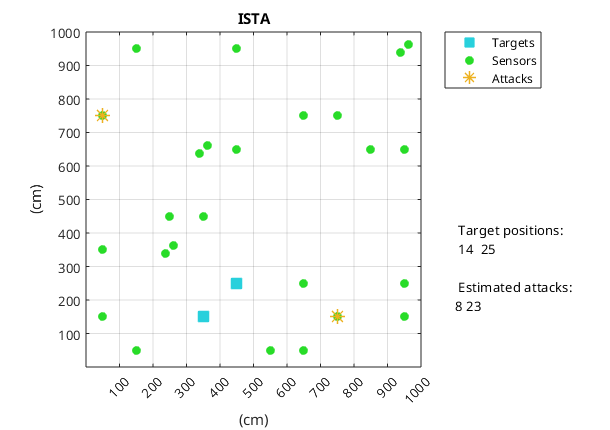
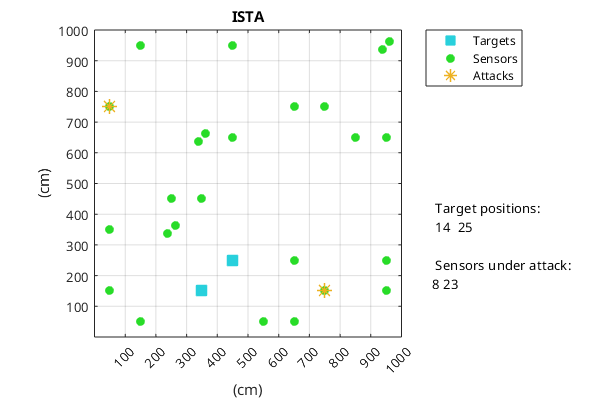
e03, e04: report

diff --git a/e04/e04_main.m b/e04/e04_main.m
@@ -5,6 +5,9 @@ clc
 format compact
 
 
+DISPLAY_MODE = false;
+
+
 % parameters
 trg = 3;    % # of targets
 atk = 2;    % # of attacks
@@ -34,13 +37,14 @@ a = z(p+1:p+q);
 x_sort = sort(x, 'descend');
 smallest_accepted_value = x_sort(trg);
 x = x >= smallest_accepted_value;
+pos_in = x;     % save for time-varying attacks init
 
 a_sort = sort(a, 'descend');
 smallest_accepted_value = a_sort(atk);
 a = a >= smallest_accepted_value;
 
 % dynamic sse ista
-first_convergence = false;
+first_conv = false;
 z_hat = zeros(p+q,1);
 k_fin = size(Y,2);
 for k=1:k_fin
@@ -68,12 +72,14 @@ for k=1:k_fin
     display_CPS(x_hat, x, D, a_hat, a, p, q, 2, str);
 
     % pause if convergence achieved for first time
-    if ~first_convergence && isequal(x_hat, x)
+    if ~first_conv && isequal(x_hat, x)
         pause
-        first_convergence = true;
+        first_conv = true;
     end
 
-    pause(0.5)
+    if DISPLAY_MODE
+        pause(0.5);
+    end
 end
 
 
@@ -82,7 +88,6 @@ end
 %% Time-varying attacks
 % create new measurements from scratch
 x_tv = zeros(p, 1);         % actual positions
-pos_in = [13, 40, 84];   
 for j = pos_in
     x_tv(j) = 1;
 end
@@ -91,7 +96,7 @@ Y_tv = zeros(q, k_fin);     % measurements
 
 n_atks = 4;
 atk_sensors = randperm(q, n_atks);     % sensors under attack
-n0 = 2;                     % initial number of attacked sensors
+n0 = n_atks/2;              % initial number of attacked sensors
 k_switch = 24;              % time after which the second attack starts
 
 for i = 1:k_fin
@@ -99,8 +104,10 @@ for i = 1:k_fin
     Yi = D*x_tv;
     
     % apply the attacks
-    for j = atk_sensors(1:n0)
-        Yi(j) = Yi(j)*1.5;
+    if i <= k_switch
+        for j = atk_sensors(1:n0)
+            Yi(j) = Yi(j)*1.5;
+        end
     end
 
     if i > k_switch         % second wave of attacks
@@ -115,17 +122,11 @@ for i = 1:k_fin
 end
 
 % repeat the algorithm
-% compute initial state to compare with estimations
-z0 = zeros(p+q,1);
-[z, num_iter] = ista_lasso(z0, Y_tv(:,1), G, p, q, tau, tau_lambda, delta, false);
-x = z(1:p);
-a = z(p+1:p+q);
-
-x_sort = sort(x, 'descend');
-smallest_accepted_value = x_sort(trg);
-x = x >= smallest_accepted_value;
-
-a = a >= 1e-1;
+% initial conditions
+x = pos_in;
+a = atk_sensors(1:n0);
+first_conv = 0;
+diverge = 0;
 
 % dynamic sse ista
 z_hat = zeros(p+q,1);
@@ -150,9 +151,25 @@ for k=1:k_fin
     x = A*x;
     x = x > 0;      % convert to logical
 
+    % update attacks
+    if k > k_switch
+        a = atk_sensors(n0+1:n_atks);
+    end
+
     % plot targets positions
     str = sprintf("Iteration %d", k);
     display_CPS(x_hat, x, D, a_hat, a, p, q, 3, str);
+    
+    % pause if convergence achieved
+    if ~first_conv && isequal(x_hat, x)
+        pause
+        first_conv = k;
+    end
+    if first_conv && ~diverge && isequal(x_hat, x)
+        diverge = k;
+    end
 
-    pause(0.5);
+    if DISPLAY_MODE
+        pause(0.5);
+    end
 end

diff --git a/e05/e05_main.m b/e05/e05_main.m
@@ -85,6 +85,11 @@ fprintf("\n\n");
 
 
 %% DISTA
+
+num_iter = zeros(length(Q_vec),1);
+num_iter_convergence = zeros(length(Q_vec),1);
+k_stop = zeros(length(Q_vec),1);
+
 % for each setup
 for Q_index = 1:length(Q_vec)
     % modification of ista_lasso.m
@@ -98,8 +103,6 @@ for Q_index = 1:length(Q_vec)
 
     % initialization
     k = 1;
-    num_iter = 0;
-    num_iter_convergence = 0;
     z = zeros(p+q, q);      % z collects each z^(i) in R^(p+q), for each sensor
     z_next = zeros(p+q, q);     % tmp variable for z_{k+1}
     
@@ -130,7 +133,7 @@ for Q_index = 1:length(Q_vec)
                 end
             end
 
-            num_iter = num_iter + 1;
+            num_iter(Q_index) = num_iter(Q_index) + 1;
         end
         
         % check if reached exit condition
@@ -170,8 +173,8 @@ for Q_index = 1:length(Q_vec)
             end
         end
 
-        if num_iter_convergence == 0 && n_corr_x == q && n_corr_a == q
-            num_iter_convergence = k;
+        if num_iter_convergence(Q_index) == 0 && n_corr_x == q && n_corr_a == q
+            num_iter_convergence(Q_index) = k;
         end
 
         % print
@@ -183,10 +186,12 @@ for Q_index = 1:length(Q_vec)
         z = z_next;
         k = k + 1;
     end
+
+    k_stop(Q_index) = k;
      
     % print output
     fprintf("\nConsensus reached in k=%i time steps, with %i total iterations, delta=%.8f\n", ...
         k, num_iter, sum)
-    fprintf("Convergence achieved in %i iterations\n\n", num_iter_convergence)
+    fprintf("Convergence achieved in %i iterations\n\n", num_iter_convergence(Q_index))
 end
 

diff --git a/display_CPS.m b/display_CPS.m
@@ -127,7 +127,7 @@ end
 
 % a_corr - atk_corr
 if ~isempty(a_corr)
-    str = sprintf('%s\n\n Estimated attacks: \n', str);
+    str = sprintf('%s\n\n Sensors under attack: \n', str);
     for i = 1:length(atk_corr)
         str = sprintf('%s%d ', str, atk_corr(i));
     end
@@ -135,7 +135,7 @@ end
 
 % a_hat - atk
 if ~isempty(a_hat)
-    str = sprintf('%s\n\n Sensors under attack: \n', str);
+    str = sprintf('%s\n\n Estimted attacks: \n', str);
     for i = 1:length(atk)
         str = sprintf('%s%d ', str, atk(i));
     end

diff --git a/e05/e05_display_results.m b/e05/e05_display_results.m
@@ -1,0 +1,10 @@
+% run e05_main.m to set up workspace variables
+
+close all
+clc
+
+format compact
+
+f = figure(1);
+f.Position([3 4]) = [600, 400];
+
